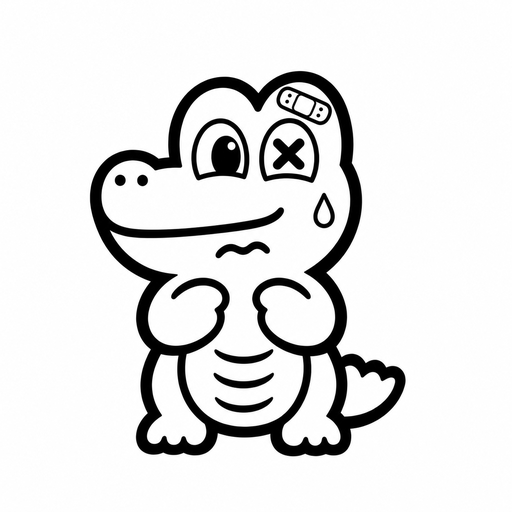
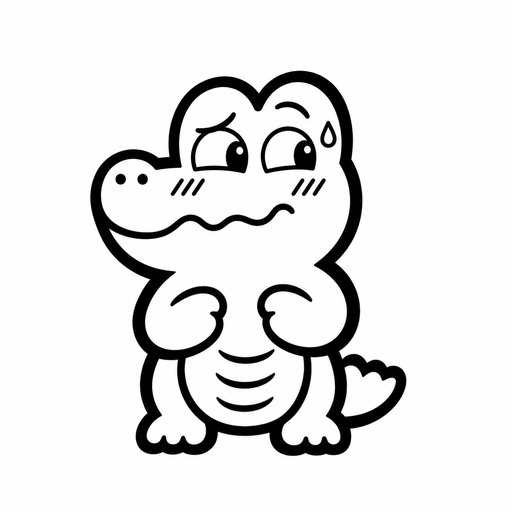
feat(art): error 动作改为尴尬表情（v0.7.1）

diff --git a/docs/SPEC.md b/docs/SPEC.md
@@ -2,7 +2,7 @@
 
 > 项目：`zectrix-croc-pet`（历史名 dsh-pet）
 > 形态：**DSH 插件**（宿主 bundle 内置 `bin/dsh-pet.exe`），把 DeepSeek Harness 的实时状态推到 ZECTRIX Note 4 墨水屏。
-> 版本：0.7.0 · 2026-11-18
+> 版本：0.7.1 · 2026-11-18
 > 状态取值：`已验收`（自动化+真机证据齐） / `待验证`（代码完成，缺一项证据） / `待实现`。
 > 本文件是唯一功能清单；实现变更先改这里，再改代码。
 
@@ -160,7 +160,7 @@
 - 物种：gator / 短吻鳄（alligator）——圆头、短而宽的 U 形吻部、上颌盖住下颌；不画长 V 形吻与外露齿排。
 - 风格：粗黑描边卡通风、白高光眼、浅色肚皮分节线、短肢体；头身比 chibi（头部约占身高 45%）。
 - 规格：90×120 单色 PNG（L 模式，0 墨 / 255 纸），按 1:1 绘制在 (300,152)，`scale` 保留、v1 传 1。
-- 六动作：`idle` 端咖啡、`working` 桌前敲笔记本、`waiting` 举手 + 问号、`done` 点赞 + 星星、`error` 创可贴 + × 眼 + 汗、`sleep` 蜷卧闭眼 + Z。
+- 六动作：`idle` 端咖啡、`working` 桌前敲笔记本、`waiting` 举手 + 问号、`done` 点赞 + 星星、`error` 尴尬苦笑 + 冷汗、`sleep` 蜷卧闭眼 + Z。
 - 素材契约：`assets/croc/default/{action}.png`，用户可用 6 个同尺寸同路径文件直接替换，不改代码（ADR 0007）。
 - 生成：母版 `art/gen-v3/*.png` 由 gpt-image-2（image edit 模式；idle 以用户参考图为基准、其余以 idle 为角色基准）生成并入库存 512px；`scripts/prep_croc_art.py` 统一裁剪并转换 90×120 二值图，顺带生成 `plugin/icon.png`（ADR 0008）。
 - 状态：已验收。
@@ -211,7 +211,7 @@
 **FR-REL-02 安装方式**：DSH Add plugin → Git 地址 `https://github.com/gator-university/zectrix-croc-pet`；本地开发用 link 目录。
 - 状态：待验证（本地 link 安装已验证；Git 地址未建仓/未发布）。
 
-**FR-REL-03 版本**：`Cargo.toml` 与插件 `package.json` 同步（0.7.0）；`engines.dsh >= 0.2.1-alpha.2`。
+**FR-REL-03 版本**：`Cargo.toml` 与插件 `package.json` 同步（0.7.1）；`engines.dsh >= 0.2.1-alpha.2`。
 - 状态：已验收。
 
 ## 10. 可验证性（FR-VER）

diff --git a/README.md b/README.md
@@ -5,7 +5,7 @@
 一只像素小鳄鱼，跟着 DSH 的会话状态换动作。它是 **DeepSeek Harness 插件**：
 DSH 打开它就起来，DSH 关闭它就退出，设置页就在 DSH 的 Plugins 里，没有别的常驻程序。
 
-`Windows 10 / 11 x64` · `v0.7.0` · `MIT` · DSH `>= 0.2.1-alpha.2` · ZECTRIX Note 4（400×300 单色）
+`Windows 10 / 11 x64` · `v0.7.1` · `MIT` · DSH `>= 0.2.1-alpha.2` · ZECTRIX Note 4（400×300 单色）
 
 <p align="center">
   <img src="docs/screens/working.png" width="420" alt="设备上的一帧：单任务详情，右下角是鳄鱼大宠物">
